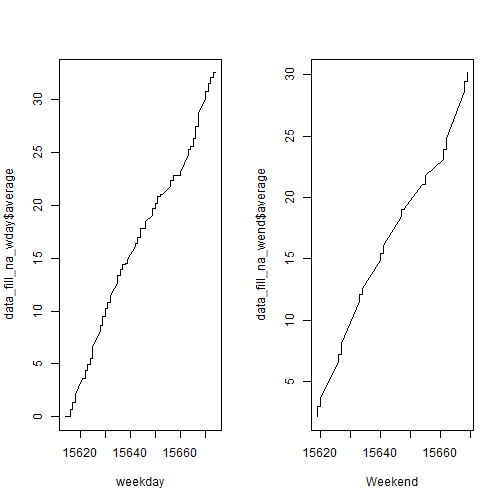
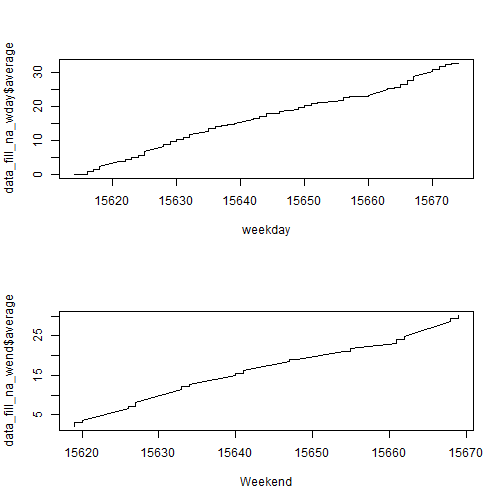
Second

diff --git a/PA1_template.html b/PA1_template.html
@@ -607,7 +607,7 @@ data_fill_na[,4]&lt;-as.factor(data_fill_na[,4])
 
 <p>5.Make a panel plot containing a time series plot (i.e. type = &ldquo;l&rdquo;) of the 5-minute interval (x-axis) and the average number of steps taken, averaged across all weekday days or weekend days (y-axis). See the README file in the GitHub repository to see an example of what this plot should look like using simulated data.</p>
 
-<pre><code class="r">par(mfrow=c(1,2))
+<pre><code class="r">par(mfrow=c(2,1))
 
 average&lt;- cumsum(data_fill_na[,1])/nrow(data_fill_na)
 
@@ -630,7 +630,7 @@ Weekend=ts(data_fill_na_wend$date)
 plot(Weekend,data_fill_na_wend$average, type=&quot;l&quot;)
 </code></pre>
 
[2 lines of base64/hex data omitted]
 
 </body>
 

diff --git a/PA1_template.md b/PA1_template.md
@@ -479,7 +479,7 @@ data_fill_na[,4]<-as.factor(data_fill_na[,4])
 
 
 ```r
-par(mfrow=c(1,2))
+par(mfrow=c(2,1))
 
 average<- cumsum(data_fill_na[,1])/nrow(data_fill_na)
 
